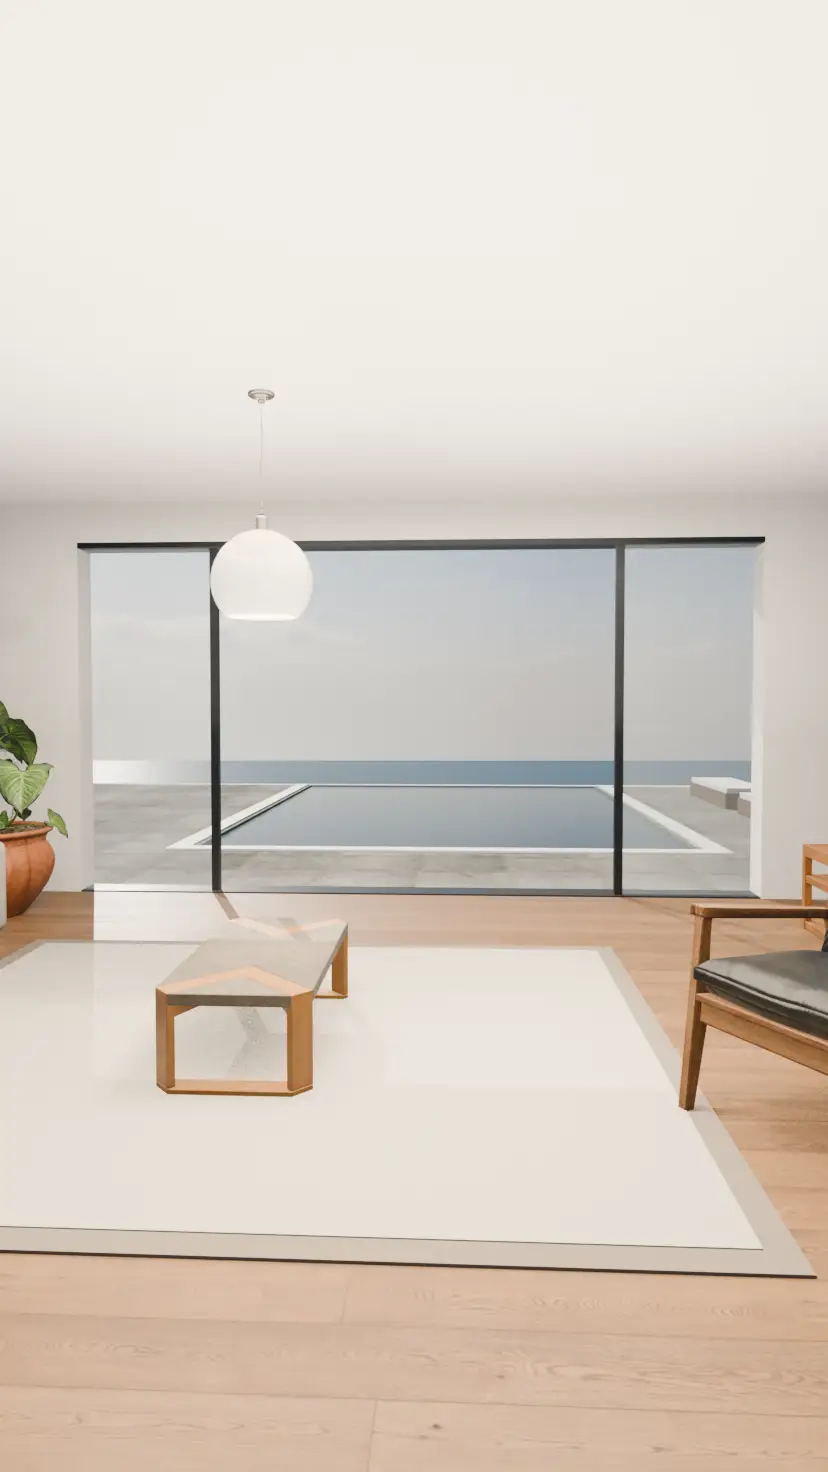
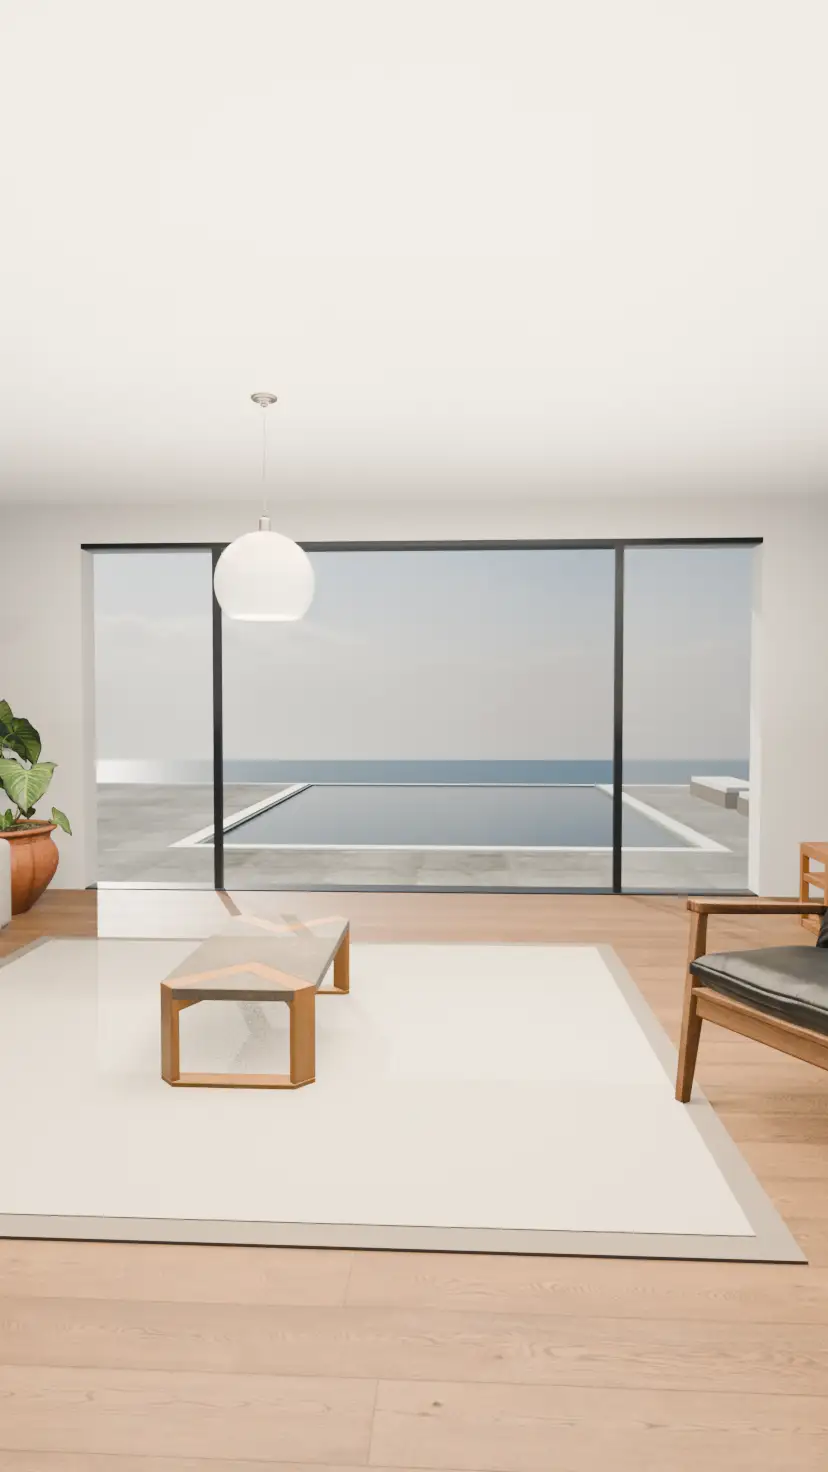
Hero scroll move on phones: every frame (36), shorter touch glide
Phones used every other rendered frame (18), so each step and each
cross-fade spanned twice the camera move of desktop. The 18 skipped frames
are rendered (hero-render --mode phone-fill) and phones now load all 36
(648 KB, still only after the first touch/scroll or 3 s). The glide is
45 ms on phones: a finger already scrolls smoothly.

diff --git a/src/components/home-hero-scene.tsx b/src/components/home-hero-scene.tsx
@@ -21,15 +21,17 @@ import { useEffect, useRef, useState } from "react";
  *   Desktop (from md): 36 frames, 1600×900 WebP, about 0.9 MB in all. The
  *   hero is held (sticky) for 70vh of scrolling while the camera moves; see
  *   the `motion-safe:` height on #discover in app/page.tsx.
- *   Phones: 18 upright frames, 828×1472 WebP, about 0.3 MB. Nothing is held;
- *   the move plays as the hero scrolls away, so the page is no longer.
+ *   Phones: 36 upright frames, 828×1472 WebP, about 0.65 MB (was 18; every
+ *   frame since 26 Nov, so the cross-fades are as fine as on desktop). Nothing
+ *   is held; the move plays as the hero scrolls away, so the page is no
+ *   longer. They download only after the first touch or scroll (or 3 s).
  *
  * Frames are static files in public/hero/frames, rendered with the Blender
  * set-up in hero-render/ (outside the repo).
  */
 const SETS = {
   desktop: { dir: "/hero/frames/d", count: 36 },
-  phone: { dir: "/hero/frames/p", count: 18 },
+  phone: { dir: "/hero/frames/p", count: 36 },
 } as const;
 const OBJECT_Y = 0.58; // matches the still's object-position: center 58%
 
@@ -133,8 +135,10 @@ export default function HomeHeroScene() {
     // to it, so a mouse-wheel notch (~100 px, six frames on desktop) plays as
     // a short move through the frames. Time-based, so it settles in about
     // 0.3 s at any refresh rate; the loop stops once it has caught up, so
-    // nothing runs while the page is still.
-    const GLIDE_MS = 90;
+    // nothing runs while the page is still. Phones glide for less: a finger
+    // already scrolls smoothly, and a long glide leaves the picture trailing
+    // behind it.
+    const GLIDE_MS = desktop ? 90 : 45;
     function tick(now: number) {
       raf = 0;
       const goal = target();
